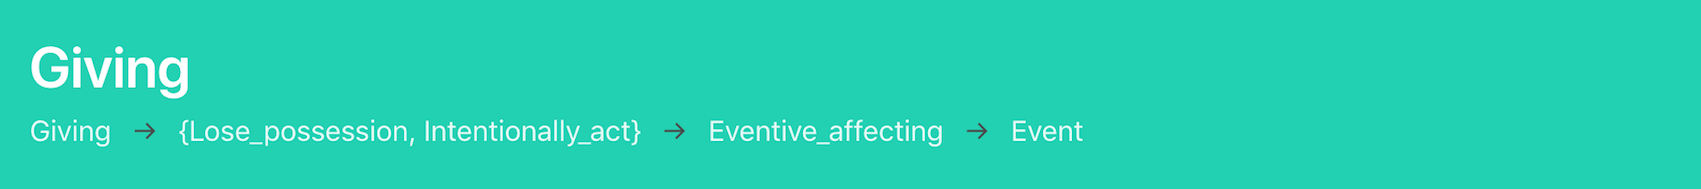
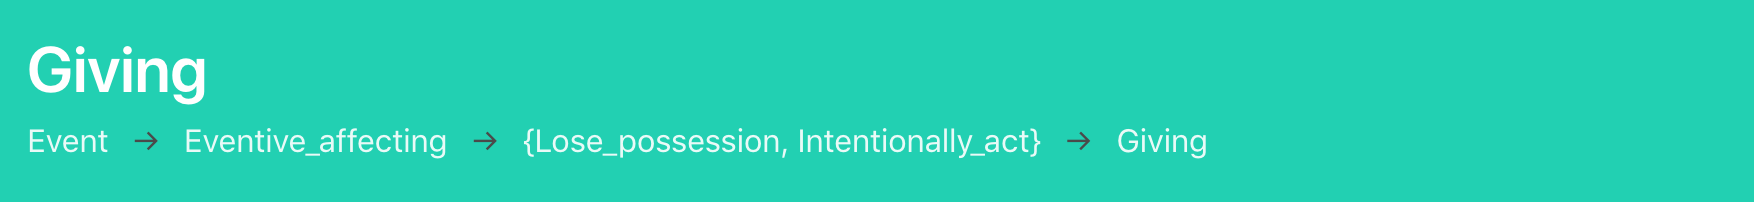
Updated doc

Changed region(s): [[0.0, 0.6349, 0.6855, 0.7937], [0.0, 0.2381, 0.1246, 0.5291]]

diff --git a/docs/index.md b/docs/index.md
@@ -144,7 +144,9 @@ Similarly, we have added, under each frame name on the `Frame` tab, the list of
 the frame's *parents* (the frames with which the current frame is in an
 `Inheritance` Frame-to-Frame relationship).
 
-For example,
+For example, rendering the frame `Giving` will show that it inherits
+from `Lose_possession` and `Intentionally_act`, one (or more) of which inherits from
+`Eventive_affective` which itself inherits from `Event`.
 ![Screenshot](img/giving.png)
 
 ## PT GF overview
@@ -161,3 +163,9 @@ For example,
 | Appos | Appositive | | |
 
 ## Mapping to UD and PENN
+
+!!! warning
+    This mapping is tentative and currently here to illustrate the potential
+    for using myValencer with various PT.GF nomenclatures.
+    If you would like to contribute, please join our
+    [discussion](https://github.com/akb89/valencer/issues/47).
